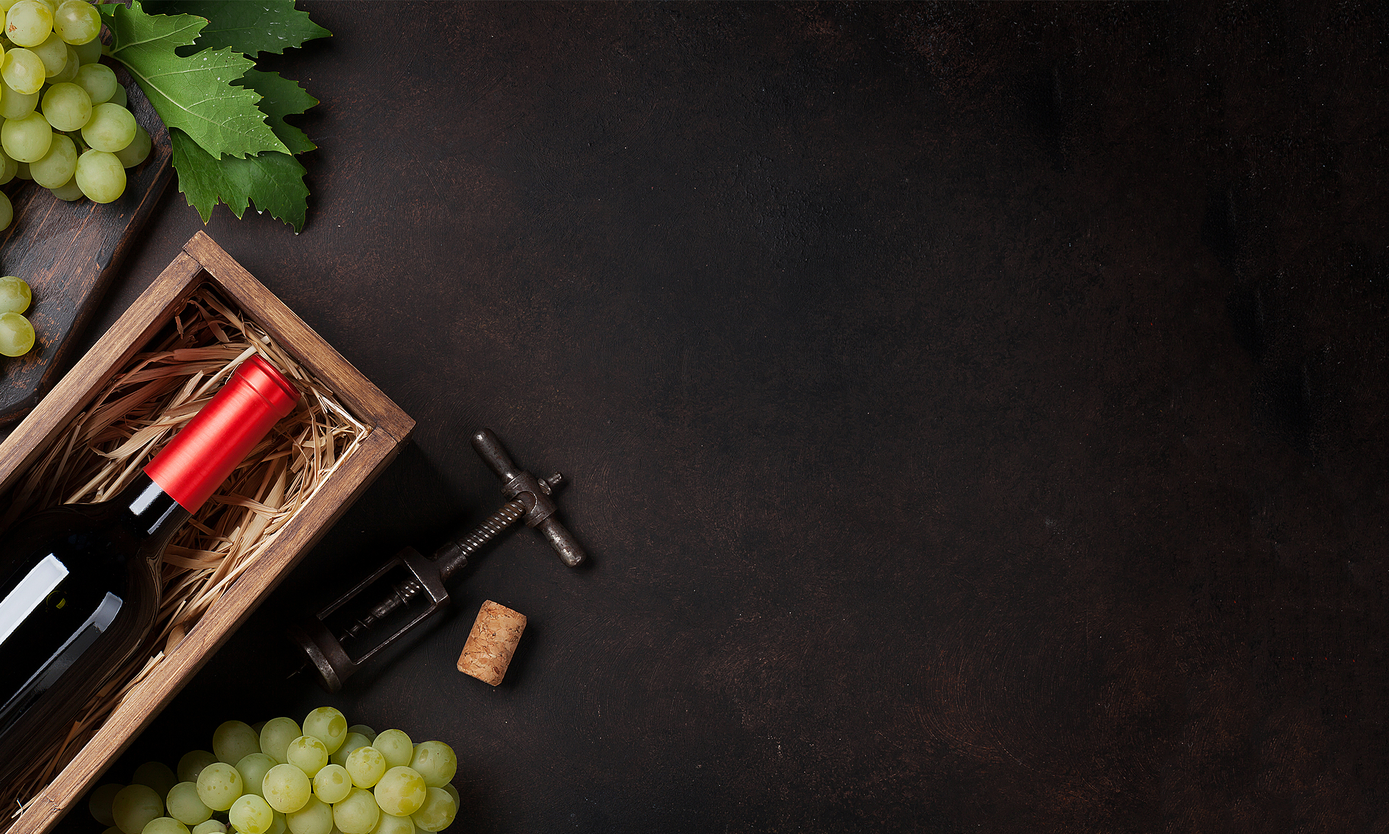
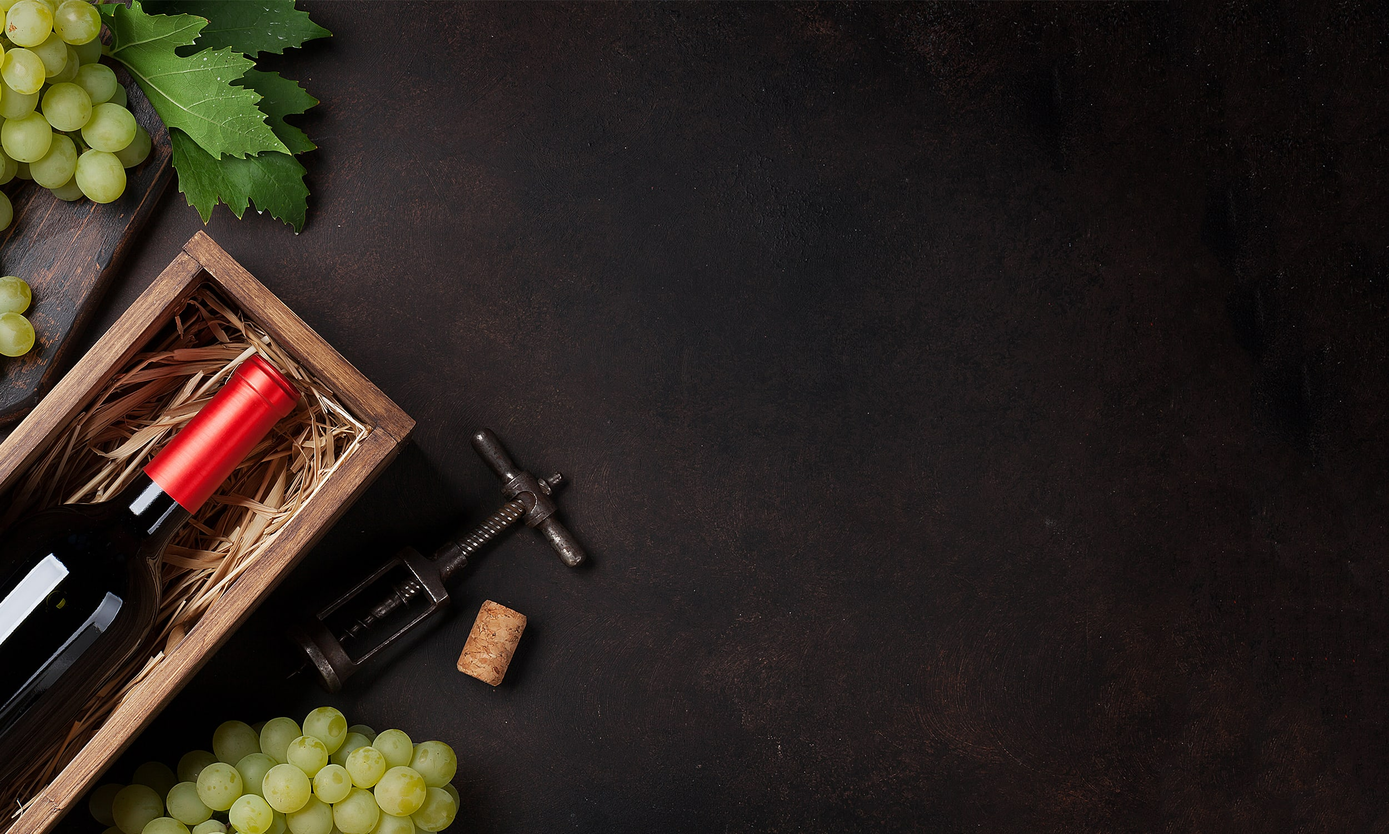
upload

diff --git a/index.shop-history.html b/index.shop-history.html
@@ -1,7 +1,7 @@
 <div class="shop-history">
   <img
     class="shop-history__banner"
-    src="./img/components/index.shop-history/wine-history-image.png"
+    src="./img/components/index.shop-history/wine-history-image.webp"
     alt=""
   />
   <div class="shop-history__content">
